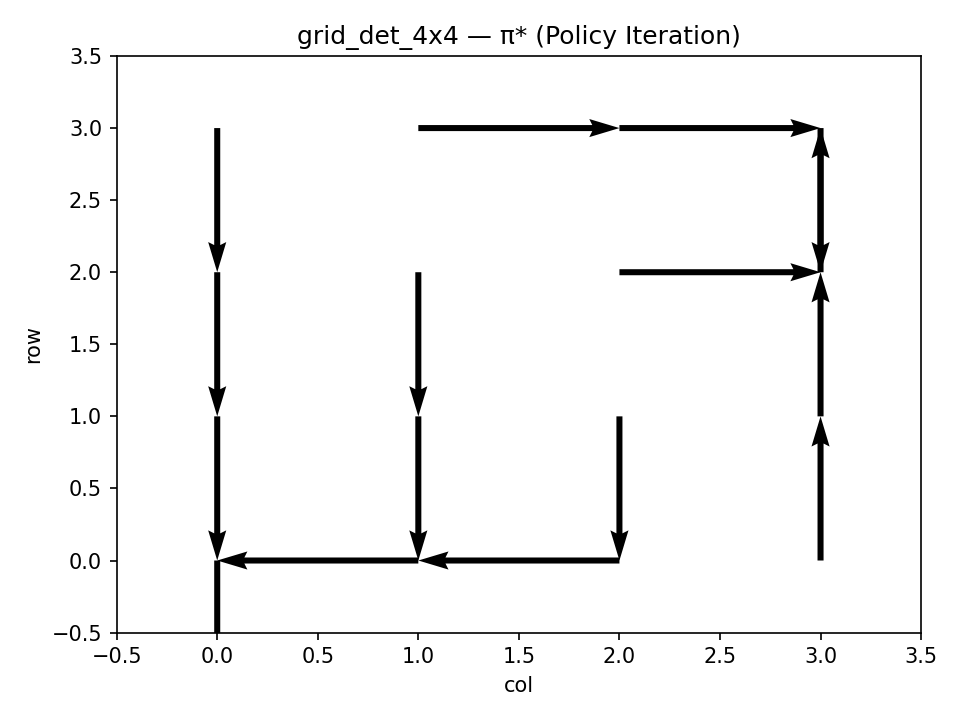
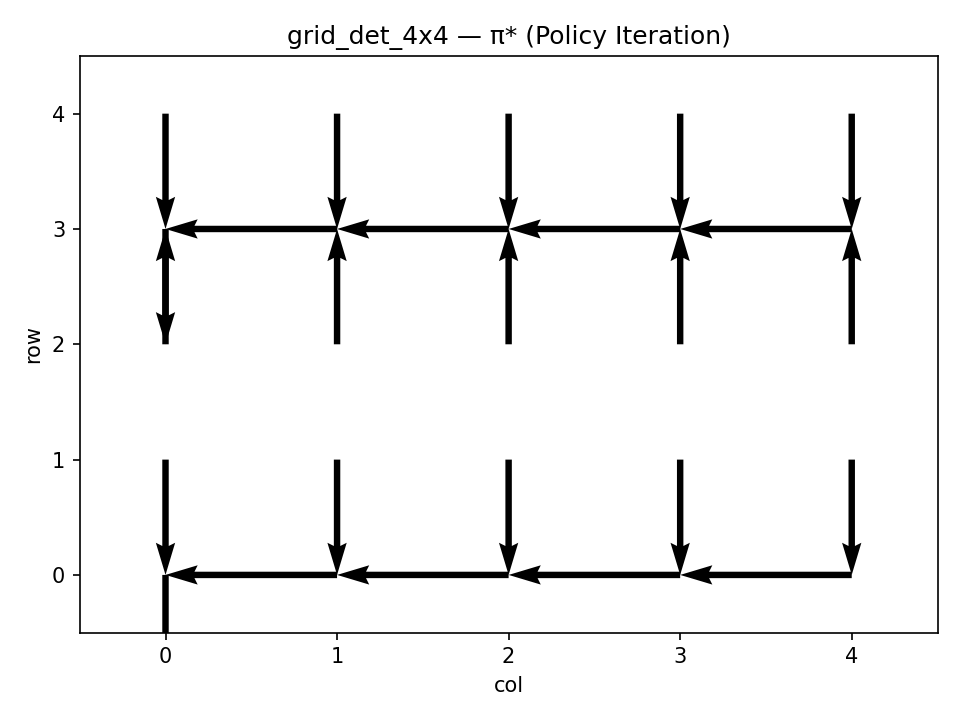
results: add DP plots for deterministic & stochastic 5x5 GridWorld (PI/VI + Δ)

diff --git a/lab2/experiments/run_gridworld.py b/lab2/experiments/run_gridworld.py
@@ -43,19 +43,19 @@ def run_case(spec: GridSpec, tag: str, gamma=0.9, theta=1e-6):
 def main():
     ensure_results()
 
-    # Deterministic 4x4
+    # Deterministic 5x5
     spec_det = GridSpec(
-        size=4, terminals=(0, 15), obstacles=(), step_reward=-1.0,
+        size=5, terminals=(0, 15), obstacles=(), step_reward=-1.0,
         goal_reward=0.0, intended_prob=1.0, stochastic=False
     )
-    run_case(spec_det, tag="grid_det_4x4", gamma=0.9, theta=1e-6)
+    run_case(spec_det, tag="grid_det_5x5", gamma=0.9, theta=1e-6)
 
-    # Stochastic 4x4 (80% intended, 10% perpendicular each)
+    # Stochastic 5x5 (80% intended, 10% perpendicular each)
     spec_sto = GridSpec(
-        size=4, terminals=(0, 15), obstacles=(), step_reward=-1.0,
+        size=5, terminals=(0, 15), obstacles=(), step_reward=-1.0,
         goal_reward=0.0, intended_prob=0.8, stochastic=True
     )
-    run_case(spec_sto, tag="grid_sto_4x4", gamma=0.9, theta=1e-6)
+    run_case(spec_sto, tag="grid_sto_5x5", gamma=0.9, theta=1e-6)
 
 
 if __name__ == "__main__":
